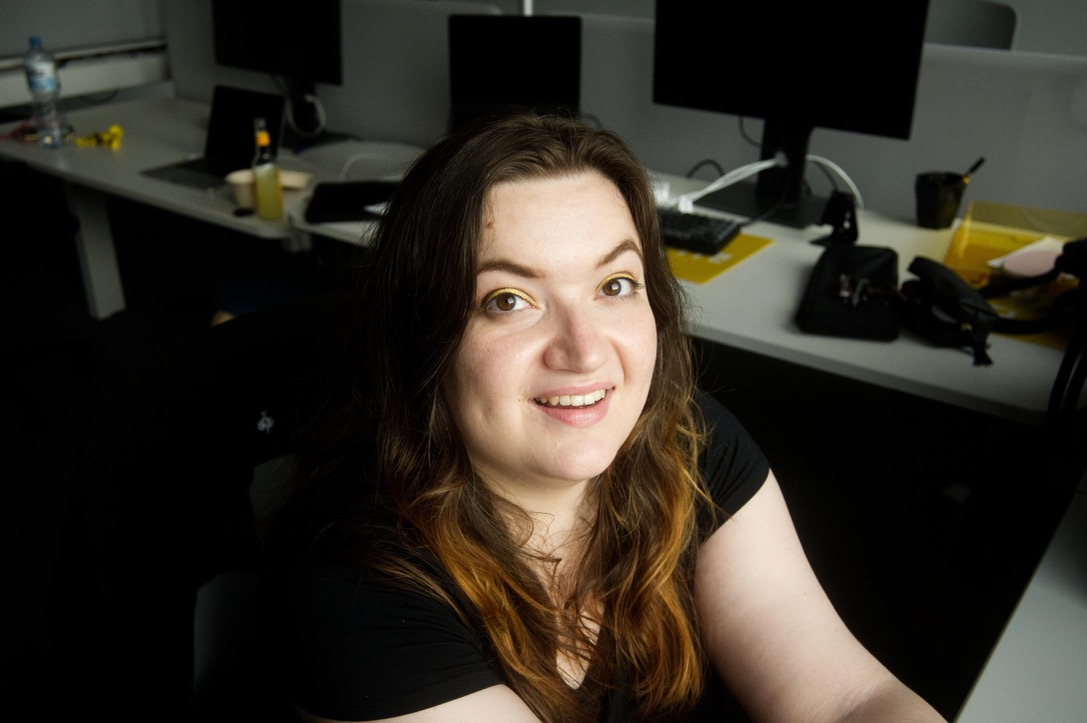
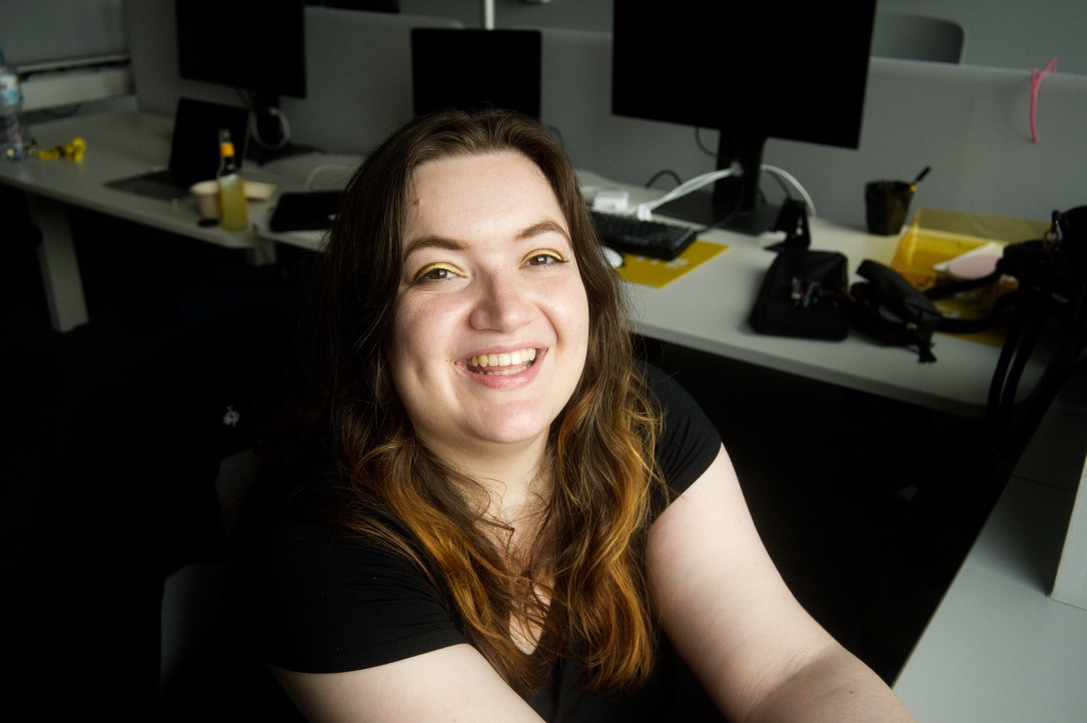
Change images

diff --git a/src/content/sections/about/about.md b/src/content/sections/about/about.md
@@ -1,5 +1,5 @@
 ---
-imageSrc: "../../images/colonial-leda.jpeg"
+imageSrc: "../../images/leda-vertical.jpeg"
 imageAlt: "Leda wearing baby blue"
 ---
 
